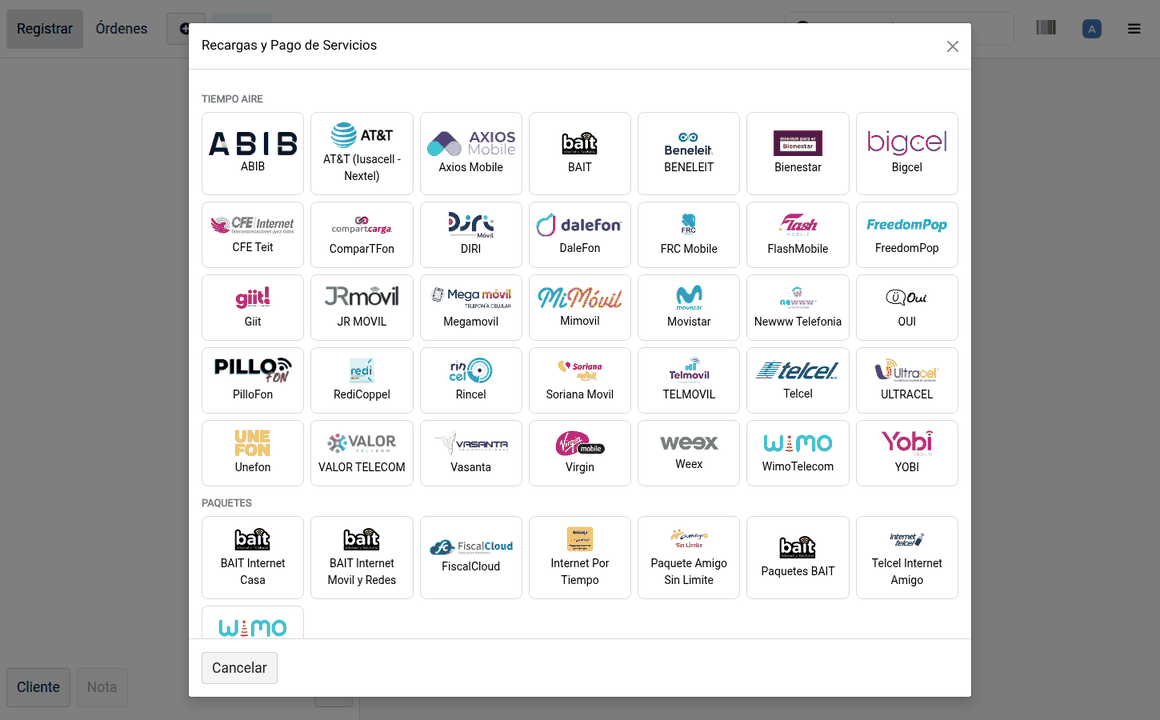
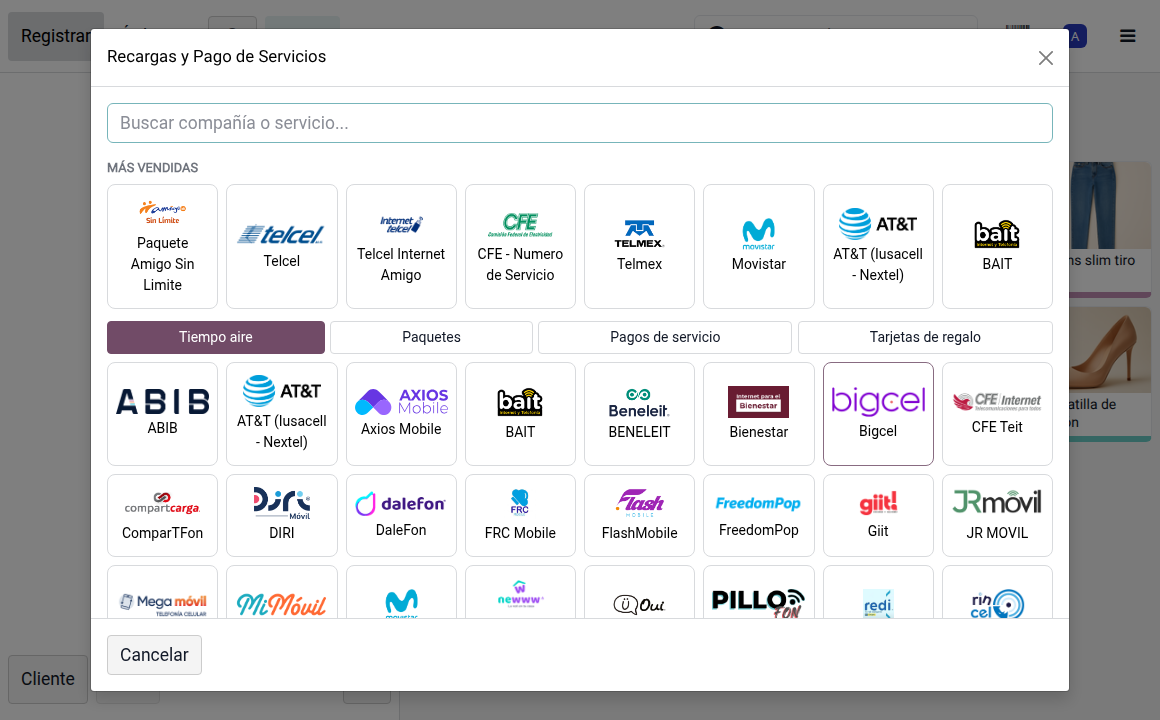
xb_pos_taecel 20.0.1.1.7: screenshots and cashier manual match the new recharge picker
- Store page: new carriers screenshot (most sold, tabs, search box) and a
  line on the search box, the tabs and small POS terminals.
- Cashier manual: steps 2 and bill payments describe the search box and the
  tabs; their screenshots retaken (es and en).
- The manual is refreshed on upgrade. Its checksum was taken of the body we
  generated, which the html sanitizer always rewrites, so every manual looked
  edited by hand and none was ever refreshed. It is now taken of the stored
  body, and a body last written by the superuser counts as untouched.

diff --git a/xb_pos_taecel/static/description/index.html b/xb_pos_taecel/static/description/index.html
@@ -39,8 +39,11 @@
 
     <div style="margin:0 0 32px;">
       <p style="font-size:15px;color:#666;margin:0 0 10px;">
-        That button opens the whole catalog, grouped as TAECEL publishes it
-        &mdash; airtime, data packages, bill payments:
+        That button opens the whole catalog. What this shop sells most comes
+        first, then one tab per group &mdash; airtime, data packages, bill
+        payments, gift cards &mdash; and a search box finds any company by
+        name, accents or not. It fits small POS terminals too, and on a touch
+        screen the keyboard only shows up when the cashier taps the search box:
       </p>
       <img src="screenshots/carriers.png"
            style="max-width:100%;border:1px solid #ecdede;border-radius:8px;"/>
@@ -84,6 +87,9 @@
           Bait, Virgin, Weex and the rest, plus utilities such as CFE, Telmex,
           Sky, Dish and Megacable. The catalog is synchronised from TAECEL on
           demand and on a schedule, so new products appear without an update.</li>
+      <li><b>Found in seconds</b> &mdash; the most sold carriers on top, tabs
+          per group and a search box, in a window that fits handheld
+          terminals such as the Newland N750.</li>
       <li><b>Your own service fee</b> per carrier, added to the line and printed
           on the receipt as TAECEL requires.</li>
       <li><b>Electronic PINs</b> handed to the customer on the ticket.</li>

diff --git a/xb_pos_taecel/manual.py b/xb_pos_taecel/manual.py
@@ -20,7 +20,8 @@ from odoo.tools.translate import _
 _logger = logging.getLogger(__name__)
 
 ARTICLE_XMLID = 'xb_pos_taecel.article_cashier_manual'
-CHECKSUM_PARAM = 'xb_pos_taecel.manual_checksum'
+CHECKSUM_PARAM = 'xb_pos_taecel.manual_checksum'        # body as stored
+SOURCE_PARAM = 'xb_pos_taecel.manual_source_checksum'    # body as generated
 IMG_BASE = '/xb_pos_taecel/static/src/img/manual'
 
 
@@ -90,9 +91,11 @@ def build_body(env):
 
     add('<h2>%s</h2>' % _("2 - Pick the carrier or the service"))
     add(_p(_(
-        "The full list opens: mobile carriers at the top, services (power, "
-        "cable, internet, pay TV) further down. It is the catalog your provider "
-        "publishes, so if it shows here, it can be sold.")))
+        "At the top are the carriers this shop sells most. Below them, one tab "
+        "per group: airtime, data packages, bill payments and gift cards. To go "
+        "straight to one, type part of its name in the search box -- \"telcel\", "
+        "\"cfe\" --, accents or not. It is the catalog your provider publishes, "
+        "so if it shows here, it can be sold.")))
     add(_img(folder, '02_companias', _("List of carriers and services")))
 
     add('<h2>%s</h2>' % _("3 - Tap the amount the customer asked for"))
@@ -135,10 +138,10 @@ def build_body(env):
 
     add('<h2>%s</h2>' % _("Bill payments: power, water, cable..."))
     add(_p(_(
-        "Taking a bill is the same flow with one change. In the list, next to "
-        "the mobile carriers, are the services: power, water, gas, cable, "
-        "internet, pay TV and several government offices. Pick the one on the "
-        "customer's bill.")))
+        "Taking a bill is the same flow with one change. The services -- power, "
+        "water, gas, cable, internet, pay TV and several government offices -- "
+        "are under the bill payments tab. Pick the one on the customer's bill, "
+        "or type its name in the search box.")))
     add(_img(folder, '06_servicios', _("List of services")))
     add(_p(_(
         "The difference: a service has %(no_fixed)s. Instead you type two "
@@ -313,12 +316,19 @@ def install_manual(env):
     if article:
         # Refresh only what the customer has not touched: an edited manual is
         # theirs, and stomping it on every upgrade would be worse than stale.
+        # Two checksums. CHECKSUM_PARAM is of the body AS STORED: the html
+        # sanitizer rewrites what we hand it, so comparing against the body we
+        # generated never matched and every manual looked edited. A body last
+        # written by the superuser (this function) was not edited by a person
+        # either. SOURCE_PARAM is of the body as generated: when it has not
+        # changed there is nothing new to write.
         previous = params.get_param(CHECKSUM_PARAM)
         current = hashlib.sha256((article.body or '').encode()).hexdigest()
-        if previous and previous != current:
+        by_us = article.write_uid.id == SUPERUSER_ID
+        if previous and previous != current and not by_us:
             _logger.info('xb_pos_taecel: cashier manual edited locally, left as is.')
             return article
-        if previous == digest:
+        if params.get_param(SOURCE_PARAM) == digest:
             return article
         article.write({'body': body})
     else:
@@ -349,6 +359,7 @@ def install_manual(env):
     # behind an ORM write is what makes an article revert in the browser.
     if 'html_field_history' in article._fields:
         article.write({'html_field_history': False})
-    params.set_param(CHECKSUM_PARAM, digest)
+    params.set_param(CHECKSUM_PARAM, hashlib.sha256((article.body or '').encode()).hexdigest())
+    params.set_param(SOURCE_PARAM, digest)
     _logger.info('xb_pos_taecel: cashier manual ready (article %s, %s).', article.id, lang)
     return article

diff --git a/xb_pos_taecel/migrations/1.1.7/post-migrate.py b/xb_pos_taecel/migrations/1.1.7/post-migrate.py
@@ -1,0 +1,15 @@
+# -*- coding: utf-8 -*-
+from odoo import api, SUPERUSER_ID
+
+
+def migrate(cr, version):
+    """Refresh the cashier manual: the carrier picker gained a search box, tabs
+    and a most-sold row, and the manual still described one long list.
+
+    install_manual() leaves a manual a person has edited alone. Up to 1.1.6 its
+    checksum never matched what was stored, so every manual looked edited and
+    none would have been refreshed; it now also trusts the last writer.
+    """
+    from odoo.addons.xb_pos_taecel import manual
+    env = api.Environment(cr, SUPERUSER_ID, {})
+    manual.install_manual(env)

diff --git a/xb_pos_taecel/__manifest__.py b/xb_pos_taecel/__manifest__.py
@@ -35,7 +35,7 @@ transactions. A distributor account on its own does not include API access.
 Runs on Odoo 17.0, 18.0, 19.0 and 20.0.
 """,
     'category': 'Sales/Point of Sale',
-    'version': '20.0.1.1.6',
+    'version': '20.0.1.1.7',
     'author': 'XUBAX',
     'website': 'https://xubax.com',
     'license': 'OPL-1',
